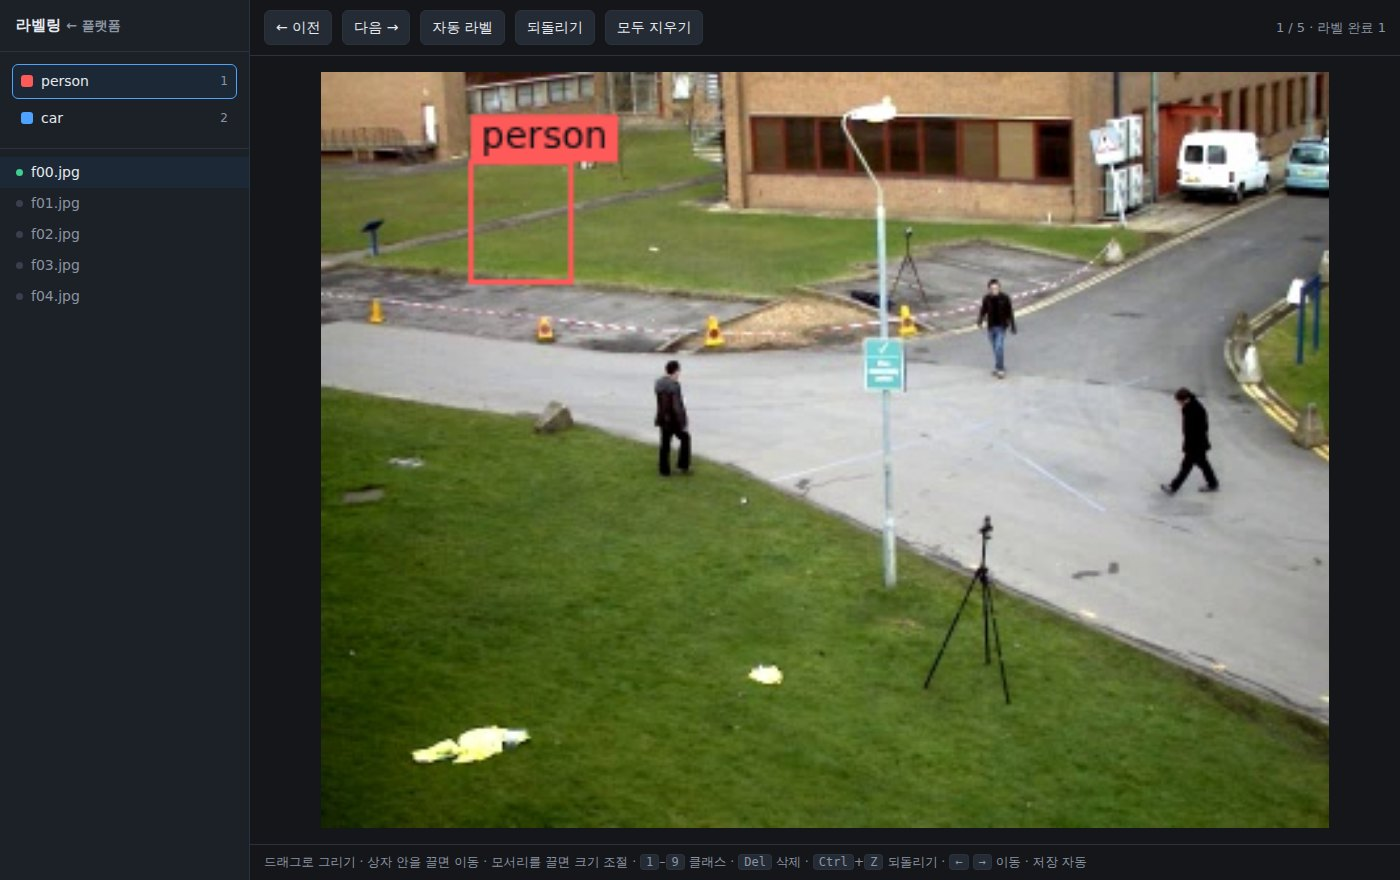
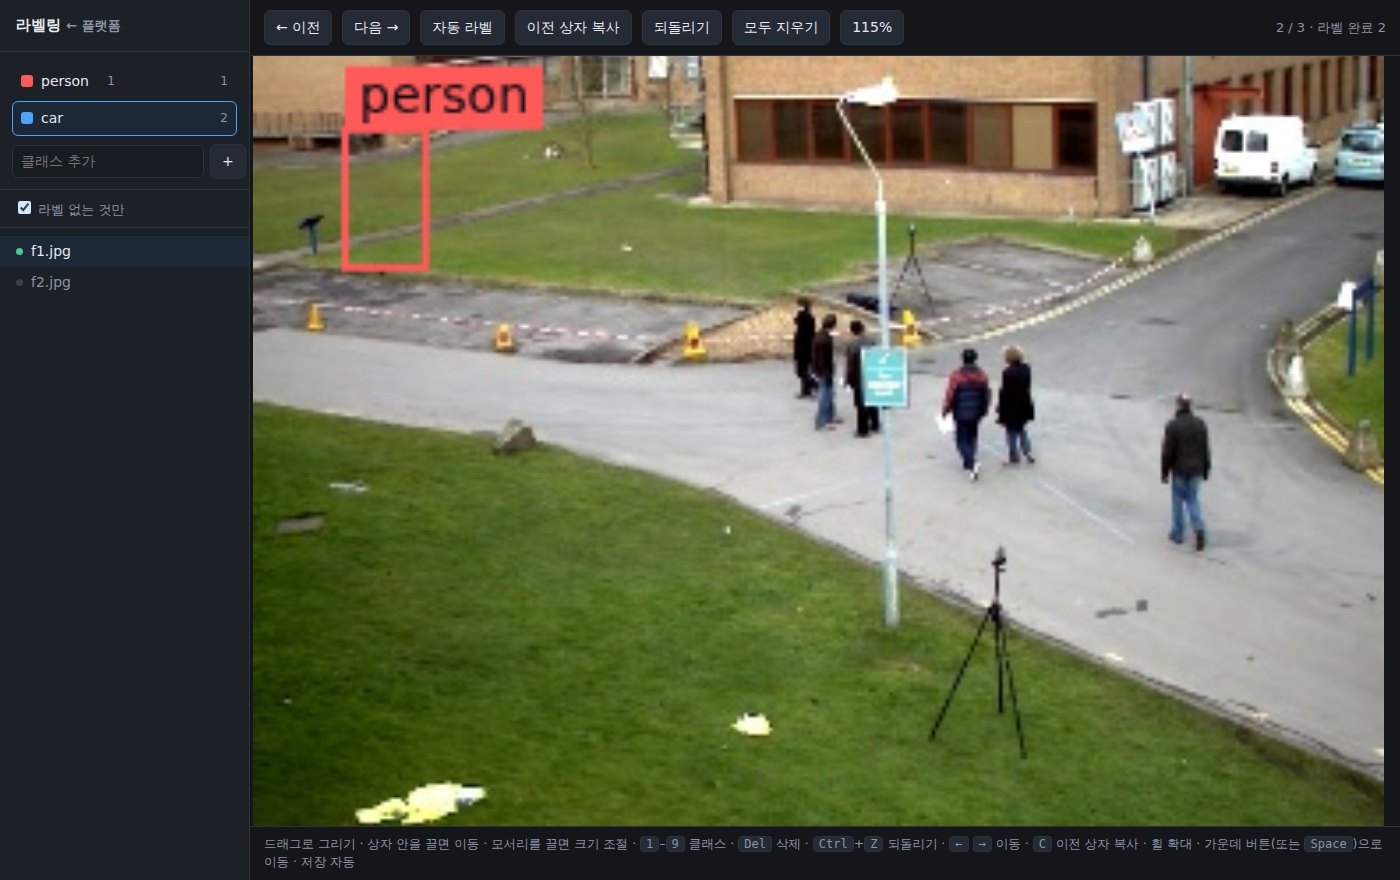
Make labelling bearable at volume
Drawing one box at fit-to-window on a 320px frame is fine; labelling a thousand
frames from a fixed camera is not, and that is the actual job. So:

- the wheel zooms around the pointer and the middle button (or Space) pans, so
  a small or distant object can be placed accurately;
- C copies the previous image's boxes, because a fixed camera repeats itself and
  nudging a copy beats drawing from scratch;
- the sidebar counts boxes per class, which is how you notice you have 400
  people and 3 cars before training tells you;
- classes can be added without editing data.yaml by hand;
- the file list can hide what is already labelled, so a second pass over a
  half-finished set does not mean scrolling past the done ones.

Verified in a browser: draw (count shows 1), add a class, arrow to the next
image, C (the box lands in its label file), wheel to 115%, filter down to the
unlabelled two.

Claude-Session: https://claude.ai/code/session_013CggjBMmJTVZhEHZXgGVV7

diff --git a/platform/static/label.html b/platform/static/label.html
@@ -14,6 +14,12 @@
   .cls[aria-pressed="true"] { border-color:var(--accent); background:#1d2836; }
   .swatch { width:12px; height:12px; border-radius:3px; flex:none; }
   .key { margin-left:auto; color:var(--dim); font-size:12px; }
+  .count { color:var(--dim); font-size:12px; min-width:18px; text-align:right; }
+  .row { display:flex; align-items:center; gap:6px; }
+  .filter { padding:8px 14px; border-bottom:1px solid var(--line); color:var(--dim); font-size:13px; }
+  .filter input { width:auto; }
+  input { background:#171b22; color:var(--ink); border:1px solid var(--line); border-radius:6px; padding:5px 8px; font:inherit; }
+  .stage { position:relative; }
   .files { flex:1; overflow:auto; padding:8px 0; }
   .file { display:flex; gap:8px; padding:5px 16px; cursor:pointer; color:var(--dim); }
   .file:hover { background:#232833; }
@@ -36,7 +42,14 @@
 
 <aside>
   <h1>라벨링 <a href="/">← 플랫폼</a></h1>
-  <div class="classes" id="classes"></div>
+  <div class="classes">
+    <div id="classes"></div>
+    <div class="row" style="margin-top:8px">
+      <input id="new-class" placeholder="클래스 추가" style="flex:1">
+      <button id="add-class">+</button>
+    </div>
+  </div>
+  <div class="row filter"><label><input type="checkbox" id="only-unlabelled"> 라벨 없는 것만</label></div>
   <div class="files" id="files"></div>
 </aside>
 
@@ -45,8 +58,10 @@
     <button id="prev">← 이전</button>
     <button id="next">다음 →</button>
     <button id="auto">자동 라벨</button>
+    <button id="copy" title="이전 이미지의 상자를 그대로 가져옵니다 (C)">이전 상자 복사</button>
     <button id="undo">되돌리기</button>
     <button id="clear">모두 지우기</button>
+    <button id="reset-zoom" hidden>100%</button>
     <span class="grow"></span>
     <span class="status" id="status"></span>
   </header>
@@ -54,7 +69,8 @@
   <footer>
     드래그로 그리기 · 상자 안을 끌면 이동 · 모서리를 끌면 크기 조절 ·
     <kbd>1</kbd>–<kbd>9</kbd> 클래스 · <kbd>Del</kbd> 삭제 · <kbd>Ctrl</kbd>+<kbd>Z</kbd> 되돌리기 ·
-    <kbd>←</kbd> <kbd>→</kbd> 이동 · 저장 자동
+    <kbd>←</kbd> <kbd>→</kbd> 이동 · <kbd>C</kbd> 이전 상자 복사 · 휠 확대 · 가운데 버튼(또는
+    <kbd>Space</kbd>)으로 이동 · 저장 자동
   </footer>
 </main>
 
@@ -67,6 +83,7 @@ const HANDLE = 9;               // grab radius for a corner, in screen pixels
 
 let dataset = null, index = 0, boxes = [], img = new Image(), cls = 0, selected = -1;
 let action = null, history = [], dirty = false;
+let zoom = 1, baseWidth = 0, lastBoxes = [], onlyUnlabelled = false, spaceDown = false;
 
 const api = async (path, options) => {
   const res = await fetch(path, options);
@@ -84,16 +101,28 @@ async function boot() {
 }
 
 function renderClasses() {
+  const counts = boxes.reduce((acc, b) => (acc[b.cls] = (acc[b.cls] || 0) + 1, acc), {});
   $("classes").innerHTML = "";
   dataset.classes.forEach((name, i) => {
     const b = document.createElement("button");
     b.className = "cls";
     b.setAttribute("aria-pressed", i === cls);
     b.innerHTML = `<span class="swatch" style="background:${COLORS[i % COLORS.length]}"></span>
-                   <span>${name}</span><span class="key">${i < 9 ? i + 1 : ""}</span>`;
+                   <span>${name}</span><span class="count">${counts[i] || ""}</span>
+                   <span class="key">${i < 9 ? i + 1 : ""}</span>`;
     b.onclick = () => setClass(i);
     $("classes").append(b);
   });
+}
+
+async function addClass() {
+  const name = $("new-class").value.trim();
+  if (!name) return;
+  const names = [...dataset.classes, name];
+  await api(`/api/datasets/${DATASET}/classes`, { method: "POST",
+    headers: { "Content-Type": "application/json" }, body: JSON.stringify({ names }) });
+  dataset.classes = names; $("new-class").value = "";
+  cls = names.length - 1; renderClasses();
 }
 
 function setClass(i) {
@@ -104,6 +133,7 @@ function setClass(i) {
 function renderFiles() {
   $("files").innerHTML = "";
   dataset.files.forEach((f, i) => {
+    if (onlyUnlabelled && f.labelled && i !== index) return;
     const row = document.createElement("div");
     row.className = "file" + (f.labelled ? " done" : "");
     row.setAttribute("aria-current", i === index);
@@ -117,6 +147,7 @@ function renderFiles() {
 
 async function load(i) {
   if (dirty) await save();
+  if (boxes.length) lastBoxes = JSON.parse(JSON.stringify(boxes));
   index = i; selected = -1; history = [];
   boxes = (await api(`/api/datasets/${DATASET}/labels/${i}`)).boxes;
   await new Promise((done) => {
@@ -124,17 +155,39 @@ async function load(i) {
     img.src = `/api/datasets/${DATASET}/image/${i}?t=${Date.now()}`;
   });
   canvas.width = img.naturalWidth; canvas.height = img.naturalHeight;
-  fit(); renderFiles(); draw();
+  fit(); renderFiles(); renderClasses(); draw();
 }
 
-function fit() {
-  // scale the canvas to fill the stage in CSS pixels; the drawing buffer keeps
-  // the image's own resolution, so labels stay exact whatever the zoom
+function fit(keepZoom) {
+  // the drawing buffer keeps the image's own resolution, so labels stay exact
+  // whatever the zoom; only the CSS size changes
   const stage = canvas.parentElement.getBoundingClientRect();
   const room = Math.min((stage.width - 32) / canvas.width, (stage.height - 32) / canvas.height);
-  canvas.style.width = `${Math.max(canvas.width * room, 100)}px`;
+  baseWidth = Math.max(canvas.width * room, 100);
+  if (!keepZoom) zoom = 1;
+  applyZoom();
 }
-window.addEventListener("resize", () => { fit(); draw(); });
+
+function applyZoom() {
+  canvas.style.width = `${baseWidth * zoom}px`;
+  $("reset-zoom").hidden = zoom === 1;
+  $("reset-zoom").textContent = `${Math.round(zoom * 100)}%`;
+}
+
+canvas.parentElement.addEventListener("wheel", (e) => {
+  if (!baseWidth) return;
+  e.preventDefault();
+  const before = canvas.getBoundingClientRect();
+  const ax = (e.clientX - before.left) / before.width, ay = (e.clientY - before.top) / before.height;
+  zoom = Math.min(Math.max(zoom * (e.deltaY < 0 ? 1.15 : 1 / 1.15), 1), 12);
+  applyZoom();
+  const after = canvas.getBoundingClientRect();
+  const stage = canvas.parentElement;
+  stage.scrollLeft += after.width * ax - before.width * ax;
+  stage.scrollTop += after.height * ay - before.height * ay;
+}, { passive: false });
+
+window.addEventListener("resize", () => { fit(true); draw(); });
 
 const pixels = (b) => [ (b.cx - b.w / 2) * canvas.width, (b.cy - b.h / 2) * canvas.height,
                         b.w * canvas.width, b.h * canvas.height ];
@@ -192,6 +245,14 @@ function inside(b, p) {
 function push() { history.push(JSON.stringify(boxes)); if (history.length > 50) history.shift(); }
 
 canvas.addEventListener("pointerdown", (e) => {
+  if (e.button === 1 || spaceDown) {            // pan instead of drawing
+    const stage = canvas.parentElement;
+    action = { kind: "pan", x: e.clientX, y: e.clientY,
+               left: stage.scrollLeft, top: stage.scrollTop };
+    canvas.setPointerCapture(e.pointerId);
+    e.preventDefault();
+    return;
+  }
   const p = at(e);
   canvas.setPointerCapture(e.pointerId);
 
@@ -212,6 +273,12 @@ canvas.addEventListener("pointerdown", (e) => {
 
 canvas.addEventListener("pointermove", (e) => {
   if (!action) { return; }
+  if (action.kind === "pan") {
+    const stage = canvas.parentElement;
+    stage.scrollLeft = action.left - (e.clientX - action.x);
+    stage.scrollTop = action.top - (e.clientY - action.y);
+    return;
+  }
   const p = at(e);
   if (action.kind === "new") { action.x1 = p.x; action.y1 = p.y; }
   else if (action.kind === "move") {
@@ -236,6 +303,7 @@ canvas.addEventListener("pointermove", (e) => {
 
 canvas.addEventListener("pointerup", () => {
   if (!action) return;
+  if (action.kind === "pan") { action = null; return; }
   if (action.kind === "new") {
     const w = Math.abs(action.x1 - action.x0), h = Math.abs(action.y1 - action.y0);
     if (w > 4 && h > 4) {
@@ -250,7 +318,14 @@ canvas.addEventListener("pointerup", () => {
   if (dirty) touch(); else draw();
 });
 
-function touch() { dirty = true; draw(); save(); }
+function touch() { dirty = true; renderClasses(); draw(); save(); }
+
+function copyPrevious() {
+  if (!lastBoxes.length) { $("status").textContent = "복사할 이전 상자가 없습니다"; return; }
+  push();
+  boxes = boxes.concat(JSON.parse(JSON.stringify(lastBoxes)).map((b) => ({ ...b, conf: undefined })));
+  selected = -1; touch();
+}
 
 async function save() {
   if (!dirty) return;
@@ -281,7 +356,9 @@ async function autolabel() {
 }
 
 function onKey(e) {
+  if (e.code === "Space" && !spaceDown) { spaceDown = true; canvas.style.cursor = "grab"; e.preventDefault(); return; }
   if (e.ctrlKey && e.key.toLowerCase() === "z") undo();
+  else if (e.key.toLowerCase() === "c" && !e.ctrlKey && !e.metaKey) copyPrevious();
   else if (e.key === "ArrowRight") load(Math.min(index + 1, dataset.files.length - 1));
   else if (e.key === "ArrowLeft") load(Math.max(index - 1, 0));
   else if ((e.key === "Delete" || e.key === "Backspace") && selected >= 0) {
@@ -293,6 +370,15 @@ function onKey(e) {
   e.preventDefault();
 }
 
+document.addEventListener("keyup", (e) => {
+  if (e.code === "Space") { spaceDown = false; canvas.style.cursor = "crosshair"; }
+});
+
+$("copy").onclick = copyPrevious;
+$("add-class").onclick = addClass;
+$("new-class").onkeydown = (e) => { if (e.key === "Enter") addClass(); };
+$("reset-zoom").onclick = () => { zoom = 1; applyZoom(); };
+$("only-unlabelled").onchange = (e) => { onlyUnlabelled = e.target.checked; renderFiles(); };
 $("prev").onclick = () => load(Math.max(index - 1, 0));
 $("next").onclick = () => load(Math.min(index + 1, dataset.files.length - 1));
 $("auto").onclick = autolabel;

diff --git a/platform/PLAN.md b/platform/PLAN.md
@@ -33,8 +33,8 @@
 ## 현재 상태 (2026-09-08)
 
 **되는 것** — 수집(이미지 다중 업로드 · 영상에서 프레임 추출 · 폴더 등록 · zip 업로드,
-기존 데이터셋에 이어붙이기), 라벨링(그리기/이동/크기/삭제/되돌리기/클래스/
-자동 라벨 단건·일괄), 데이터셋 목록·클래스 편집·삭제·zip 내보내기/들여오기,
+기존 데이터셋에 이어붙이기), 라벨링(그리기/이동/크기/삭제/되돌리기/
+자동 라벨 단건·일괄, 줌·팬, 이전 상자 복사, 클래스 추가·개수, 라벨 없는 것만 보기), 데이터셋 목록·클래스 편집·삭제·zip 내보내기/들여오기,
 학습 큐·에폭 곡선·중지·백본 고정·검증 분할, 산출물 다운로드(best.pt / IR / CSV),
 이미지 한 장 추론 미리보기, 재시작 시 유령 작업 정리.
 
@@ -61,8 +61,8 @@
 
 ### P1 — 쓰다 보면 반드시 요구될 것
 
-5. **라벨링 편의.** 줌·팬, 이전 이미지 상자 복제, 라벨 없는 이미지만 보기,
-   클래스별 개수 표시, 클래스 추가 UI.
+5. ~~**라벨링 편의.**~~ **완료** — 휠 줌·가운데버튼/스페이스 팬, <kbd>C</kbd>로 이전
+   이미지 상자 복사, 라벨 없는 이미지만 보기, 클래스별 개수, 클래스 추가 UI.
 6. **데이터셋 관리.** 이미지 삭제, 데이터셋 복제·병합, 스냅샷(버전).
 7. **학습 편의.** 중단된 작업 재개, 하이퍼파라미터 프리셋(빠름/균형/정확),
    실패 원인 요약, 학습 로그 tail.

diff --git a/platform/README.md b/platform/README.md
@@ -23,7 +23,11 @@ python platform/run.py                 # http://127.0.0.1:8080
 2. **Label** — *라벨링* on the dataset card. Drag to draw, drag inside a box to
    move it, drag a corner to resize, <kbd>1</kbd>–<kbd>9</kbd> to set the class,
    <kbd>Del</kbd> to remove, <kbd>Ctrl</kbd>+<kbd>Z</kbd> to undo. Saving is
-   automatic.
+   automatic. The wheel zooms and the middle button (or <kbd>Space</kbd>) pans,
+   for boxes too small to place at fit-to-window. <kbd>C</kbd> copies the
+   previous image's boxes — a fixed camera repeats itself. Classes can be added
+   from the sidebar and show how many boxes each has, and the file list can hide
+   what is already labelled.
 3. **Let the model do the first pass** — *자동 라벨* fills the current image;
    *전체 자동 라벨* queues a job over every unlabelled image in the dataset.
    Correcting boxes is far quicker than drawing them, and once you have a
